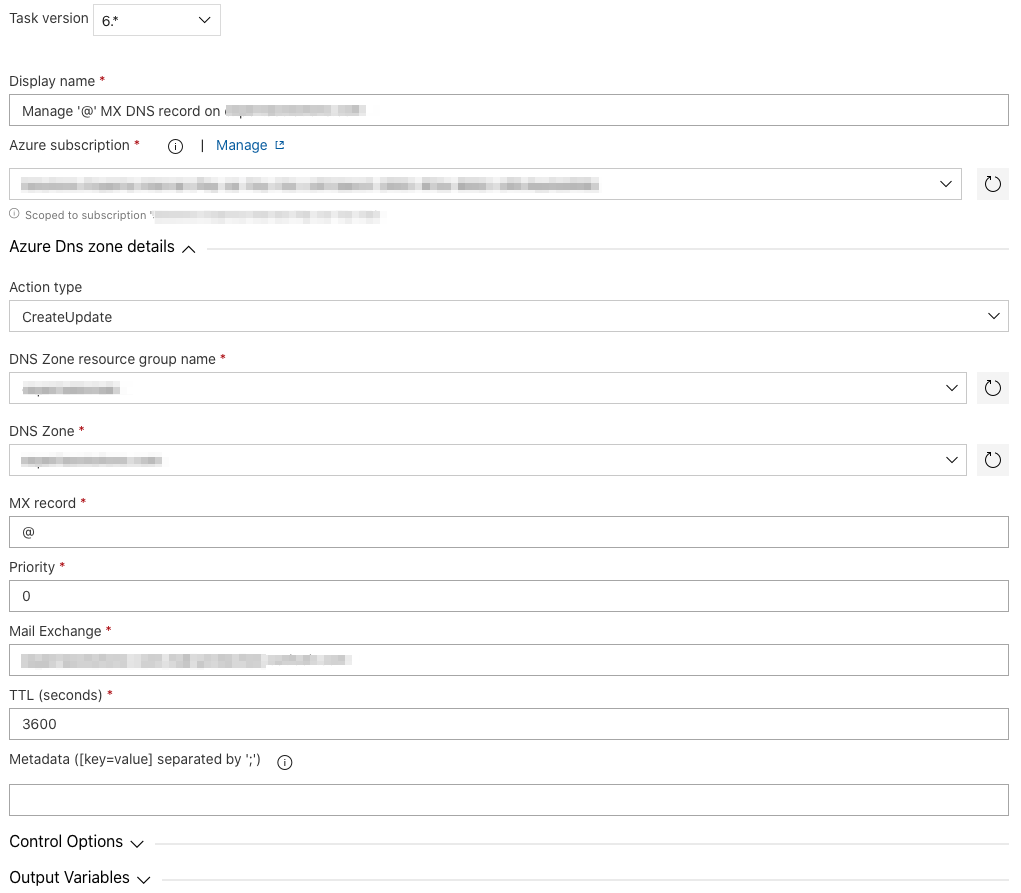
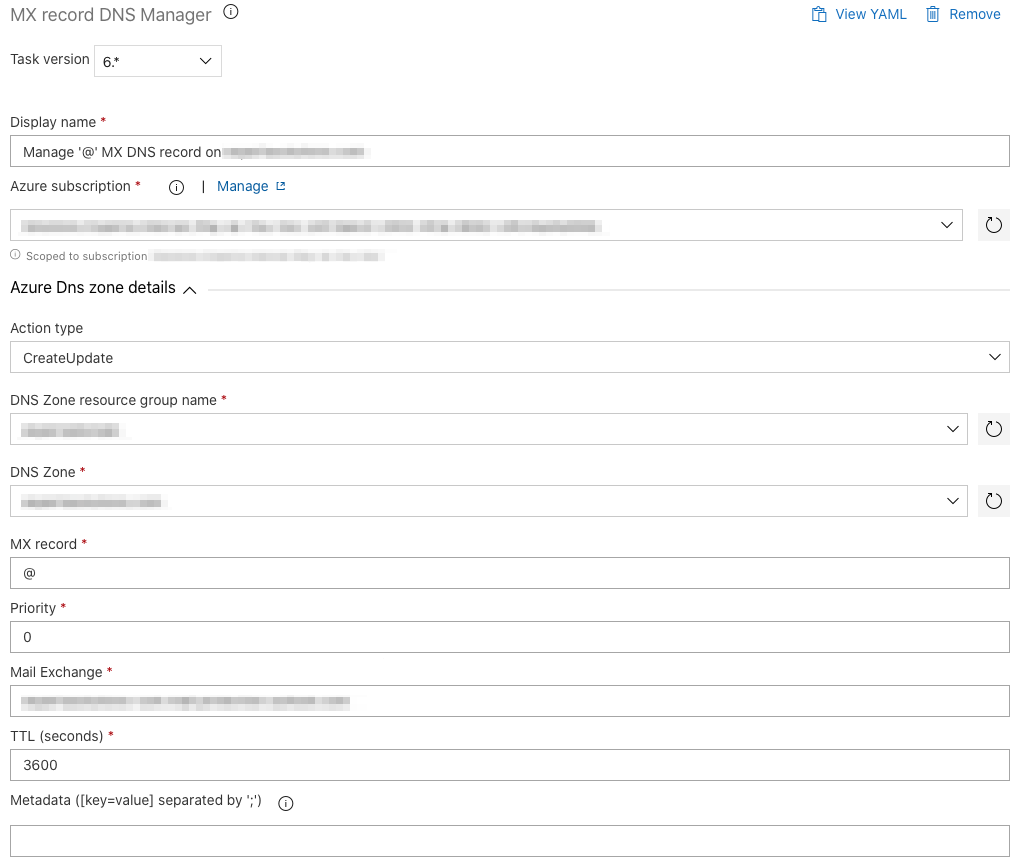
readme update with screen capture

diff --git a/README.md b/README.md
@@ -14,5 +14,11 @@ See ***[Release notes](https://github.com/expertasolutions/AzureDNSZoneExtension
 - ### CNAME Record Manager
   ![CNAMERecord_Task_inputs](_img/cnameRecord_v6.png)
 
+- ### MX Record Manager
+  ![MXRecord_Task_inputs](_img/mxRecord_v6.png)
+
+- ### SRV Record Manager
+  ![SRVRecord_Task_inputs](_img/srvRecord_v6.png)
+
 - ### TXT Record Manager
   ![CNAMERecord_Task_inputs](_img/txtRecord_v6.png)
